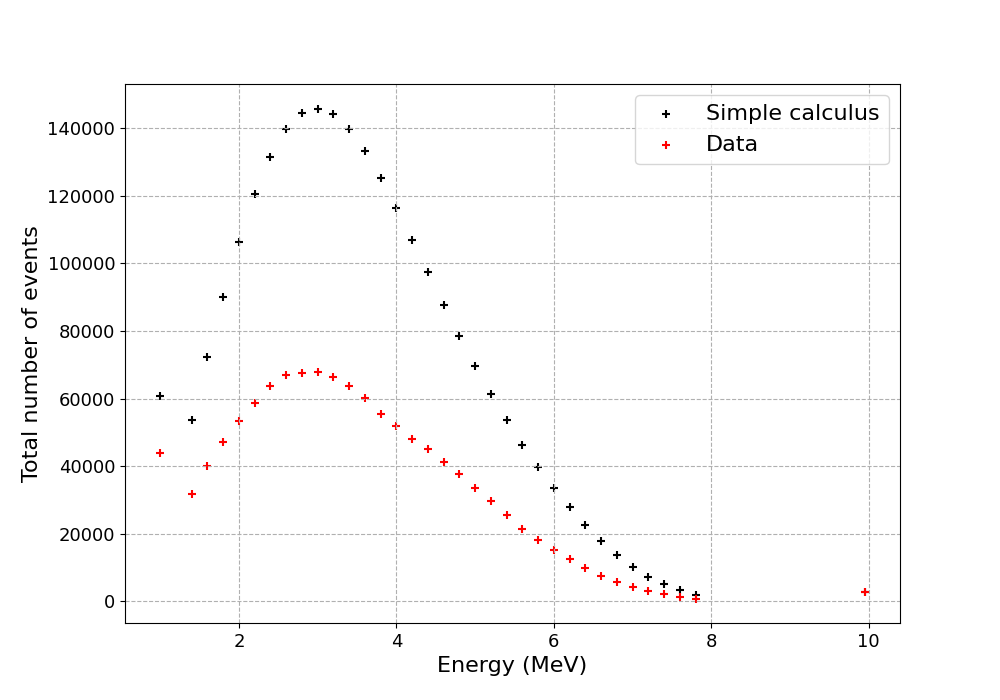
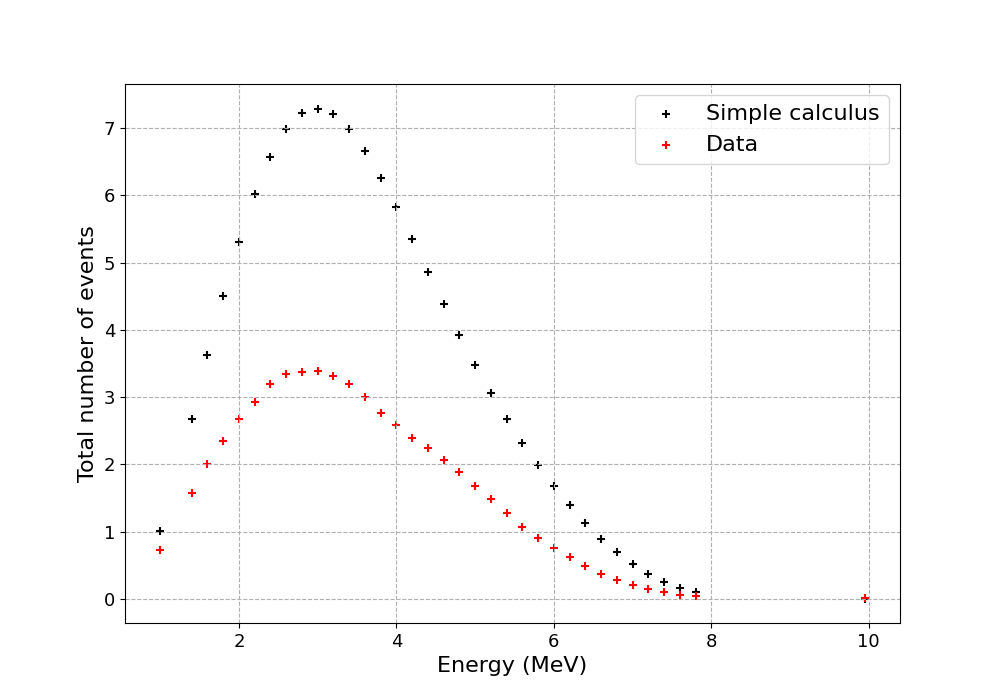
Reviewed data from articles. Added some comments.

diff --git a/Python implementation/DayaBayParameters.py b/Python implementation/DayaBayParameters.py
@@ -5,30 +5,47 @@ import numpy as np
 #    EXPERIMENTAL PARAMETERS
 # -----------------------------------------------------
 
-# FUDGE FACTORS:
-# These are just some factors Carlos entered in case something didn't work right.
-fudge_factors = {'EH1':1.0,'EH2':1.0,'EH3':1.0}
-
-# AVERAGE OF FISSION FRACTIONS:
-# This has been taken from Table IX (nueve) on 1607.05378.
-mean_fis_frac = {'U235':0.55825,'U238':0.07600,'PU239':0.30975,'PU241':0.05575}
-
 # NAMES
+# -----
 # Here we introduce the names of the experimental halls, of the reactors, and of the isotopes.
 exp_names = ['EH1','EH2','EH3']
 reac_names = ['D1','D2','L1','L2','L3','L4']
 isotopes = ['U235','U238','PU239','PU241']
 
-# EFFICIENCY OF EXPERIMENTAL HALLS
+# FUDGE FACTORS:
+# These are just some factors Carlos entered in case something didn't work right.
+fudge_factors = {'EH1':1.0,'EH2':1.0,'EH3':1.0}
+
+
+# AVERAGE OF FISSION FRACTIONS:
+# -----------------------------
+# This has been taken from Table IX (nueve) on 1607.05378.
+# One might want to differentiate between different halls (slight diff.)
+mean_fis_frac = {'U235':0.55825,'U238':0.07600,'PU239':0.30975,'PU241':0.05575}
+
+
+# EFFICIENCY AND QUANTITY OF DETECTORS
+# ------------------------------------
 # In this quantity we have also added the number of detectors per hall.
 # EH1 has two ~ 20kT detectors, EH2 has two, and EH3 has 4.
-# The efficiency is computed using \epsilon_e * \epsilon_mu * (1 + \Delta N)
-efficiency = {'EH1': 2.0*0.82*0.97*(1.+0.),'EH2': 2*0.85*0.97*(1.-0.18),
-              'EH3': 4.0*0.98*0.97*(1.-0.18)}
+# However, we have taken into account slight variations of nº protons with respecte to AD1.
+# The efficiency is computed using \epsilon_e * \epsilon_mu
+# All data obtained from table VI of 1610.04802.
+efficiency = {'EH1': 0.82*0.97*(1.+1.0013),
+              'EH2': 0.85*0.97*(2.-0.0025+0.0002),
+              'EH3': 0.98*0.97*(4.-0.0012+0.0024-0.0025-0.0005)}
 
-# QUADRATIC DISTANCE FROM REACTORS TO EXP. HALLS
+# I understand that the following implementation is incorrect, since
+# table VI gives \Delta N in units of %: 0.23% is 0.0023.
+# efficiency = {'EH1': 2.0*0.82*0.97*(1.+0.),'EH2': 2*0.85*0.97*(1.-0.18),
+#               'EH3': 4.0*0.98*0.97*(1.-0.18)}
+
+
+
+# DISTANCE FROM REACTORS TO EXP. HALLS
+# ------------------------------------
 # Obtained from arXiv:1610.04802  PHYSICAL REVIEW D 95, 072006 (2017)
-# According to Carlos, averaged the distances of the detector in each hall in quadrature (but I don't think so)
+# Averaged the distances of the detector in each hall in quadrature (but I don't think so)
 distance = {'EH1': {'D1': 360.167,'D2': 370.089,'L1': 903.41, 'L2': 817.03, 'L3': 1353.93, 'L4': 1265.61},
             'EH2': {'D1': 1334.96,'D2': 1360.52,'L1': 470.278,'L2': 492.473,'L3': 558.145, 'L4': 500.141},
             'EH3': {'D1': 1921.39,'D2': 1895.92,'L1': 1536.93,'L2': 1537.25,'L3': 1555.56, 'L4': 1529.06}}
@@ -44,6 +61,7 @@ def get_distance2(experiment,reactor):
     The square distance between these EH and reactor.
     """
     return distance[experiment][reactor]**2
+
 
 
 # -----------------------------------------------------

diff --git a/Python implementation/Plots.py b/Python implementation/Plots.py
@@ -48,6 +48,8 @@ figflux.savefig("Fluxes and cross-section.png")
 # -------------------------------------------------------
 
 x_ax = (DB_test.DataLowerBinEdges+DB_test.DataUpperBinEdges)/2
+deltaE = (DB_test.DataUpperBinEdges-DB_test.DataLowerBinEdges)
+print(deltaE)
 ev_simp = [DB_test.calculate_naked_event_expectation_simple(Model_test,'EH1',i) for i in range(0,DB_test.n_bins)]
 #ev_inte = [DB_test.calculate_naked_event_expectation_integr(Model_test,'EH1',i) for i in range(0,DB_test.n_bins)]
 data = np.array([43781,31619,40024,47052,53432,58628,63823,66905,67597,67761,66409,
@@ -55,9 +57,10 @@ data = np.array([43781,31619,40024,47052,53432,58628,63823,66905,67597,67761,664
                          21537,18159,15236,12603,9792,7447,5698,4250,3031,2154,1308,862,2873])
 
 figev,axev = plt.subplots(figsize = (10,7))
-axev.scatter(x_ax,ev_simp,marker="+",color = "black", label = "Simple calculus")
+axev.scatter(x_ax,ev_simp/deltaE/1.e5,marker="+",color = "black", label = "Simple calculus")
 #axev.scatter(x_ax,ev_inte,marker="+",color = "red", label = "Integrated calculus")
-axev.scatter(x_ax,data,marker="+",color = "red", label = "Data")
+#axev.scatter(x_ax,data,marker="+",color = "red", label = "Data")
+axev.scatter(x_ax,data/deltaE/1.e5,marker="+",color = "red", label = "Data")
 axev.set_xlabel("Energy (MeV)", fontsize = 16)
 axev.set_ylabel("Total number of events", fontsize = 16)
 axev.tick_params(axis='x', labelsize=13)

diff --git a/Python implementation/DayaBay.py b/Python implementation/DayaBay.py
@@ -22,14 +22,19 @@ class DayaBay:
         DeltaNeutronToProtonMass = 1.29322 # MeV from PDG2018 mass differences
         ElectronMass = 0.511 # MeV
         Na = 6.022140857e23 # Avogadro's number
-        FH = 12.02 # hydrogen fraction in GdLS
+        FH = 12.02 # hydrogen fraction in GdLS (what is this and what for?)
         IH1 = 0.9998 # H1 isotope abundance
         HidrogenMass = 1.673723e-27 # hidrogen mass in kg
         TotalMass = 20.e3 # in kg
 
         # Associated objects of the class
         self.deltaEfine = 0.05 # in MeV. It is the resolution of the Etrue to Erec matrix
+
         self.TotalNumberOfProtons = TotalMass*FH*Na*IH1/HidrogenMass
+        # I believe this formula is not correct, should be aprox:
+        # self.TotalNumberOfProtons = 1000*TotalMass*Na*IH1*66/120
+        # where I have assumed that GdLS has formula roughly C9H12.
+        # However, it makes no sense if we don't have the nº of reactor fissions.
 
         self.sets_names = DBP.exp_names
         self.reactor_names = DBP.reac_names

diff --git a/Python implementation/InverseBetaDecayCrossSection.py b/Python implementation/InverseBetaDecayCrossSection.py
@@ -3,10 +3,10 @@ import math
 NeutrinoEnergyThreshold = 1.806 # MeV
 DeltaNeutronToProtonMass = 1.29322 # MeV from PDG2018 mass differences
 ElectronMass = 0.511 # MeV
-sigma_0 = 0.0952e-42 # cm^2
+sigma_0 = 0.0952e-42 # cm^2 MeV^(-2)
 # More information on the IBD CrossSection can be found in
 # A Oralbaev et al 2016 J. Phys.: Conf. Ser. 675 012003
-# Using that data, sigma_0 should be 9.3516e-44 #cm^-2 at tree-level.
+# Using that data, sigma_0 should be 9.3516-9.4073e-44 #cm^-2 at tree-level.
 # One should check this better, but it should arise no big error.
 
 def ElectronEnergyO0(Enu):
@@ -44,10 +44,10 @@ def ElectronMomentum(Eele):
 def CrossSection(Enu):
     """
     Input:
-    Enu (double): Real energy of the incoming neutrino.
+    Enu (double): Real energy of the incoming neutrino, in MeV.
 
     Output:
-    Cross-section of the IBD process.
+    Cross-section of the IBD process, in cm^2.
     """
     Eele = ElectronEnergyO0(Enu)
     if (Eele < ElectronMass):

diff --git a/Python implementation/HuberMullerFlux.py b/Python implementation/HuberMullerFlux.py
@@ -38,8 +38,10 @@ class reactor_isotope_flux:
 
         Output:
         The flux of the outgoing neutrino with energy Enu
-        after the beta decay of the isotope in isotope_name,
-        according to the formula and parameters in 1106.0687.
+        after the beta decay of the isotope in isotope_name.
+        Units: #neutrinos/(MeV · fission)
+
+        More info: P. Vogel and J. Engel, Phys. Rev.D39, 3378 (1989).
         """
         exponent = 0.0
         for i in range(0,len(self.flux_parameters[self.isotope_name])):

diff --git a/Python implementation/prova.py b/Python implementation/prova.py
@@ -18,7 +18,7 @@ DB_test = DB.DayaBay()
 #print(DB.DayaBay().num_bins())
 #print(DB_test.set_ignore_oscillations(True))
 #print(DB_test.are_we_ignoring_oscillations())
-#print(DB_test.get_flux(0.1,'U235'))
+print(DB_test.get_flux(0.1,'U235'))
 
 
 #print(len(DB_test.get_resolution_matrix()))
